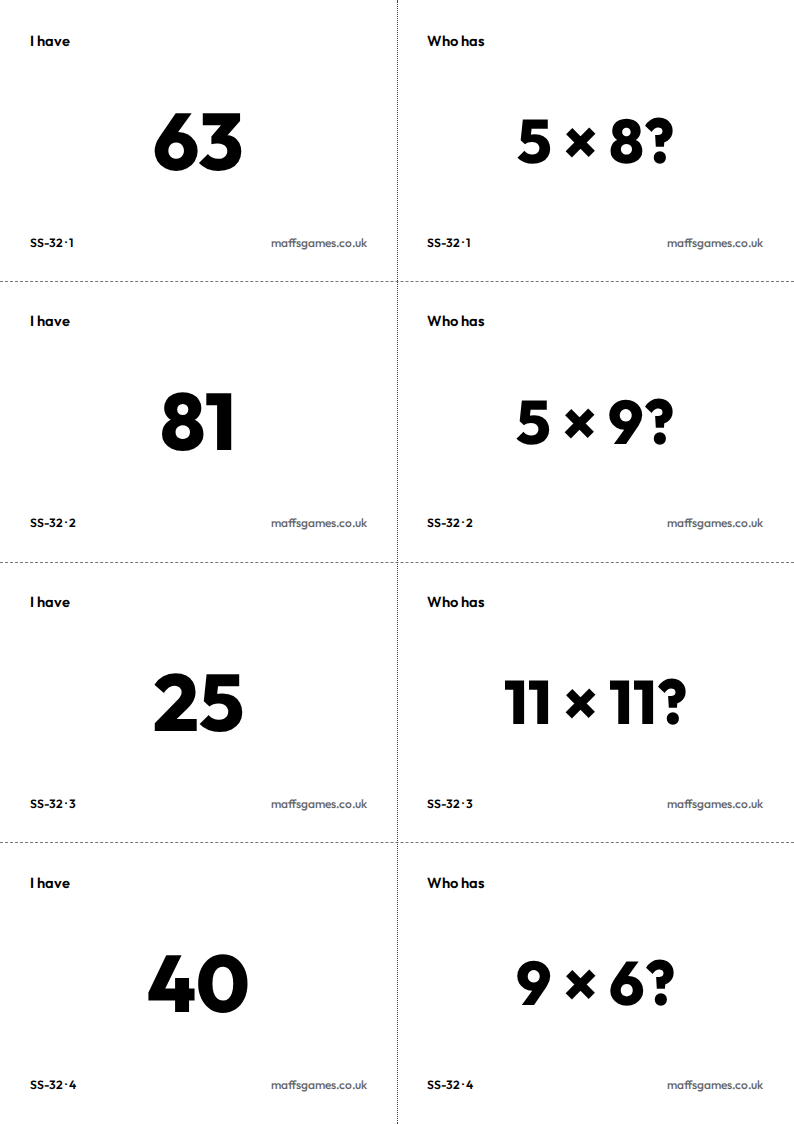
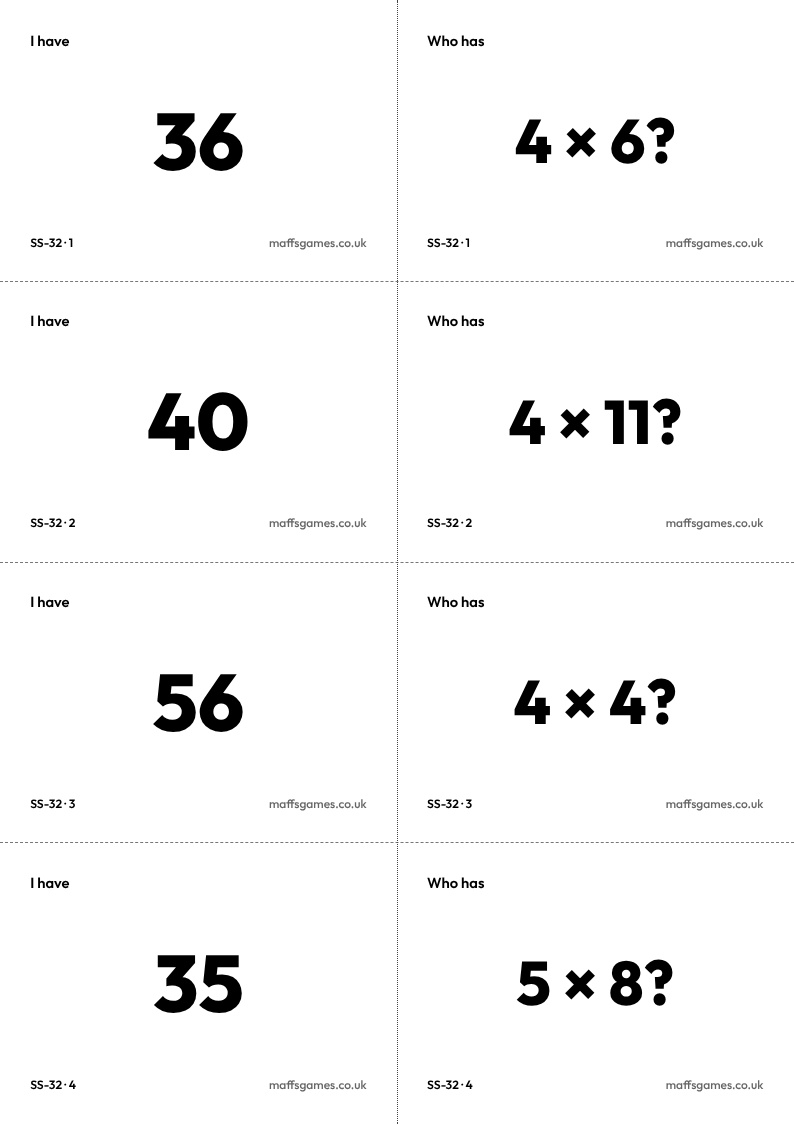
SIX-SEVENS-WEIGHTING: Six Sevens loop-card decks drill the 6, 7, 8, 9 and 12 tables by rule; the build checks it; loop-card selftest in CI (#748)
## SIX-SEVENS-WEIGHTING: Six Sevens, Bruv loop-card decks drill the 6, 7, 8, 9 and 12 tables by rule; the build checks it; the loop-card selftest runs in CI

Lane: cloud, under Jon's lane exception (13 Nov 2026, 07:58). Tier: Medium; merges on a green Gate under the cloud lane's standing authorisation (10 Oct); Project Claude reviews after merge. Merge order: none.

### Jon's rulings (verbatim)
"1 b" (01:50: re-weight the deck, not accept it as built); "1( agreed drop the 2s, 2) a)" (01:55: factors start at 3; the weighting is a rule, not a probability: SS-16 and SS-24 come only from the 6, 7, 8, 9 and 12 tables with no 11s; SS-32 takes all 25 of those products plus 7 from the 3, 4, 5 and 11 tables; the build checks every deck); "B: weighting + CI" (07:58: this work in the cloud lane, with the loop-card selftest added to CI, in one PR).

### Close-outs carried (standing rule, Jon 10 Nov)
- **WARMUP-PACKS** (#744, merged as c0214c8): main's check-site 43290435666 GREEN and phone-fit-full 43290435842 GREEN on c0214c8; contract moved to `docs/history/contracts/`. The merging session recorded no route line; this close-out does not guess one.

### What changed
[…]

diff --git a/tools/loop-cards/six_sevens.py b/tools/loop-cards/six_sevens.py
@@ -1,20 +1,31 @@
 """Six Sevens, Bruv: the loop-card adapter (contract LOOP-CARDS, 12 Nov 2026).
 
-Facts a x b with 2 <= a <= b <= 12, no x10 (the contract's rule for this pack), every product in a deck distinct,
-chosen deterministically from the deck's seeded generator and weighted to the 6, 7, 8, 9 and 12 tables. Every deck
-holds 6 x 7, whose card pair is SHOUTED (Jon, 12 Nov 2026, 15:05 and 15:07).
+Facts a x b with 3 <= a <= b <= 12, no x10, every product in a deck distinct, chosen deterministically from the deck's
+seeded generator. The decks drill the 6, 7, 8, 9 and 12 tables by RULE, not by probability (contract
+SIX-SEVENS-WEIGHTING, Jon's rulings of 13 Nov 2026, 01:50 and 01:55):
+
+  CORE  = the distinct products a x b (a, b from 3 to 12, not 10 or 11) with a or b in {6, 7, 8, 9, 12}: 25 products.
+  OTHER = every other distinct product a x b (a, b from 3 to 12, not 10): 15 products, from the 3, 4, 5 and 11 tables.
+
+  SS-16 and SS-24: 42 and the rest drawn uniformly from CORE, each printed as a fact on the 6, 7, 8, 9 or 12 table
+  with no 11. SS-32: all 25 CORE products, plus 7 drawn uniformly from OTHER.
+
+Every deck holds 6 x 7, whose card pair is SHOUTED (Jon, 12 Nov 2026, 15:05 and 15:07).
 
 The build's check never trusts choose(): value_q() and value_a() read the PRINTED text again and work the
-products out themselves, including the shouted question in words.
+products out themselves, including the shouted question in words; deck_problems() reads the printed backs' factors
+again and holds every deck to the rule above.
 """
 import re
 
 CODE = "SS"
 GAME = "six-sevens-bruv"
-FACTORS = [a for a in range(2, 13) if a != 10]
-WEIGHTED = {6, 7, 8, 9, 12}
-WEIGHT = 3                   # a fact on a weighted table is three times as likely to be chosen
+FACTORS = [a for a in range(3, 13) if a != 10]
+TABLES = {6, 7, 8, 9, 12}    # the tables the decks drill
+NOT_CORE = 11                # an 11-table fact is never core, whatever it is paired with
 REQUIRED = 42                # 6 x 7, in every deck
+CORE_DECKS = (16, 24)        # every card core
+ALL_CORE_DECK, OTHERS = 32, 7    # all of CORE, plus this many from OTHER
 TXT_CLASS = "lc-num"
 FRONT_MAX, BACK_MAX = 60, 46
 FONTS = ("Outfit",)
@@ -38,24 +49,42 @@ def _facts():
     return by_product
 
 
-def _weight(fact):
-    return WEIGHT if (fact[0] in WEIGHTED or fact[1] in WEIGHTED) else 1
+def is_core(fact):
+    """A fact on the 6, 7, 8, 9 or 12 table with no 11 in it."""
+    return NOT_CORE not in fact and bool(TABLES & set(fact))
+
+
+def _sets():
+    """(CORE, OTHER): each a dict of product -> the facts it may be printed as, in a fixed order."""
+    core, other = {}, {}
+    for p, facts in sorted(_facts().items()):
+        good = [f for f in facts if is_core(f)]
+        if good:
+            core[p] = good
+        else:
+            other[p] = facts
+    return core, other
 
 
 def choose(n, rng):
-    """n facts with distinct products, 6 x 7 always among them. A weighted sample without replacement
-    (Efraimidis-Spirakis keys), so the same seed always gives the same deck."""
-    by_product = _facts()
-    if len(by_product) < n:
-        raise ValueError("only %d distinct products, not %d" % (len(by_product), n))
-    pool = sorted(p for p in by_product if p != REQUIRED)
-    key = {p: rng.random() ** (1.0 / max(_weight(f) for f in by_product[p])) for p in pool}
-    chosen = [REQUIRED] + sorted(pool, key=lambda p: -key[p])[:n - 1]
+    """n facts with distinct products, 6 x 7 always among them, by the rule in the module's docstring. Every draw
+    comes from rng, over sorted lists, so the same seed always gives the same deck."""
+    core, other = _sets()
+    if n in CORE_DECKS:
+        pool = sorted(p for p in core if p != REQUIRED)
+        if len(pool) < n - 1:
+            raise ValueError("only %d core products besides 42, not %d" % (len(pool), n - 1))
+        chosen = [(REQUIRED, core[REQUIRED])] + [(p, core[p]) for p in rng.sample(pool, n - 1)]
+    elif n == ALL_CORE_DECK:
+        if len(core) + OTHERS != n or len(other) < OTHERS:
+            raise ValueError("%d core and %d other products cannot make %d + %d cards"
+                             % (len(core), len(other), len(core), OTHERS))
+        chosen = [(p, core[p]) for p in sorted(core)] + [(p, other[p]) for p in rng.sample(sorted(other), OTHERS)]
+    else:
+        raise ValueError("no Six Sevens deck of %d cards (16, 24 or 32)" % n)
     items = []
-    for p in chosen:
-        facts = by_product[p]
-        fk = {f: rng.random() ** (1.0 / _weight(f)) for f in facts}
-        a, b = max(facts, key=lambda f: fk[f])
+    for p, facts in chosen:
+        a, b = rng.choice(facts)
         if rng.random() < 0.5:
             a, b = b, a
         items.append({"q": "%d × %d" % (a, b), "a": str(p)})
@@ -65,7 +94,8 @@ def choose(n, rng):
 def unused(items):
     """A fact (as an item) whose product is in none of these items: the selftest's replacement for 6 x 7."""
     have = {value_a(it["a"]) for it in items}
-    for p, facts in sorted(_facts().items()):
+    core, other = _sets()
+    for p, facts in sorted(list(core.items()) + list(other.items())):
         if p not in have and p != REQUIRED:
             a, b = facts[0]
             return {"q": "%d × %d" % (a, b), "a": str(p)}
@@ -81,21 +111,61 @@ WORDS_RE = re.compile(r"WHO HAS ([A-Z]+) ([A-Z]+?)S")
 
 
 def _factor(x):
-    if not (2 <= x <= 12) or x == 10:
-        raise ValueError("factor %d is outside 2 to 12 without 10" % x)
+    if not (3 <= x <= 12) or x == 10:
+        raise ValueError("factor %d is outside 3 to 12 without 10" % x)
     return x
 
 
-def value_q(text):
-    """A printed back without its "?": "a × b" (U+00D7), or the shout in words, "WHO HAS SIX SEVENS"
-    (six lots of seven). Returns the product."""
+def _parse(text):
+    """The two numbers a printed back names: "a × b" (U+00D7), or the shout in words, "WHO HAS SIX SEVENS"
+    (six lots of seven). Neither range-checked nor multiplied: value_q() and factors_q() share this reading."""
     m = FACT_RE.fullmatch(text)
     if m:
-        return _factor(int(m.group(1))) * _factor(int(m.group(2)))
+        return int(m.group(1)), int(m.group(2))
     m = WORDS_RE.fullmatch(text)
     if m and m.group(1) in WORDS and m.group(2) in WORDS:
-        return _factor(WORDS[m.group(1)]) * _factor(WORDS[m.group(2)])
+        return WORDS[m.group(1)], WORDS[m.group(2)]
     raise ValueError("cannot read the question %r (expected 'a × b' with U+00D7)" % text)
+
+
+def value_q(text):
+    """A printed back without its "?". Returns the product."""
+    a, b = _parse(text)
+    return _factor(a) * _factor(b)
+
+
+def factors_q(text):
+    """A printed back without its "?". Returns its two factors (a, b) as printed."""
+    return _parse(text)
+
+
+def deck_problems(code, n, backs):
+    """The table rule, read from the deck's PRINTED backs (each without its "?") through factors_q() alone, never
+    from choose(). SS-16 and SS-24: every card core (a factor in 6, 7, 8, 9, 12; no 11). SS-32: at least 25 core
+    cards and at most 7 others. Every deck: no factor below 3. One message per fault, naming the deck and the back."""
+    problems, core, others = [], [], []
+    for text in backs:
+        try:
+            fact = factors_q(text)
+        except ValueError as e:
+            problems.append("%s: the back %r: %s" % (code, text, e))
+            continue
+        if min(fact) < 3:
+            problems.append("%s: the back %r has a factor below 3" % (code, text))
+        (core if is_core(fact) else others).append(text)
+    if n in CORE_DECKS:
+        for text in others:
+            problems.append("%s: the back %r is not on the 6, 7, 8, 9 or 12 table without an 11 (every %s card must be)"
+                            % (code, text, code))
+    elif n == ALL_CORE_DECK:
+        need = len(_sets()[0])
+        if len(core) < need or len(others) > OTHERS:
+            problems.append("%s: %d cards on the 6, 7, 8, 9 and 12 tables without an 11 and %d others (%s); it needs at "
+                            "least %d and at most %d" % (code, len(core), len(others), ", ".join(map(repr, others)),
+                                                         need, OTHERS))
+    else:
+        problems.append("%s: no table rule for a deck of %d cards" % (code, n))
+    return problems
 
 
 def value_a(text):

diff --git a/tools/loop-cards/build_deck.py b/tools/loop-cards/build_deck.py
@@ -632,6 +632,10 @@ def check_deck(ad, code, faces, tables, add):
             Q[i] = ad.value_q(b["main"][:-1].strip())
         except ValueError as e:
             add("%s card %s back: %s" % (code, i, e))
+    if hasattr(ad, "deck_problems"):      # an adapter's own rule for a deck's mix, read from the printed backs
+        for msg in ad.deck_problems(code, n, [b["main"][:-1].strip() for _, b in sorted(back.items())
+                                              if (b["main"] or "").endswith("?")]):
+            add(msg)
     owners = {}
     for i, v in A.items():
         owners.setdefault(v, []).append(i)
@@ -960,6 +964,33 @@ def plant_no_web(ad, cfg, pack):
     _deck(pack, "SS-16")["cards"][1]["no_web"] = ("fold", "back")
 
 
+def _rebuild(ad, cfg, pack, n, items):
+    """Deck n rebuilt from these items, so the loop stays whole and only the planted card is wrong."""
+    pack["decks"][SIZES.index(n)] = make_deck(ad, cfg, n, items)
+
+
+def _swap_item(items, product, new):
+    """items with new in place of the card answering product, or, if none does, of the first card not answering 42."""
+    k = next((i for i, it in enumerate(items) if it["a"] == product), None)
+    if k is None:
+        k = next(i for i, it in enumerate(items) if it["a"] != "42")
+    return items[:k] + [new] + items[k + 1:]
+
+
+def plant_eleven(ad, cfg, pack):
+    _rebuild(ad, cfg, pack, 24, _swap_item(_deck(pack, "SS-24")["items"], "66", {"q": "6 × 11", "a": "66"}))
+
+
+def plant_two(ad, cfg, pack):
+    _rebuild(ad, cfg, pack, 16, _swap_item(_deck(pack, "SS-16")["items"], "18", {"q": "2 × 9", "a": "18"}))
+
+
+def plant_eight_others(ad, cfg, pack):
+    """SS-32 holds every core product, 54 (6 × 9) among them: an unused non-core product takes its place."""
+    items = _deck(pack, "SS-32")["items"]
+    _rebuild(ad, cfg, pack, 32, _swap_item(items, "54", ad.unused(items)))
+
+
 PLANTS = (
     ("a duplicated answer", "like-terms-collector", plant_dup, r"is on 2 cards"),
     ("a back with no matching front", "like-terms-collector", plant_no_front, r"matches no front"),
@@ -979,6 +1010,11 @@ PLANTS = (
      r"the SHOUT IT back asks"),
     ("a shout in the Like Terms pack", "like-terms-collector", plant_lt_shout, r"in a pack without shouts"),
     ("a card face without the web address", "six-sevens-bruv", plant_no_web, r"no maffsgames\.co\.uk on this face"),
+    ("an 11-table card (6 × 11) in SS-24", "six-sevens-bruv", plant_eleven,
+     r"SS-24: the back '6 × 11' is not on the 6, 7, 8, 9 or 12 table"),
+    ("a 2-times card (2 × 9) in SS-16", "six-sevens-bruv", plant_two, r"SS-16: the back '2 × 9' has a factor below 3"),
+    ("SS-32 with 8 cards off the core tables", "six-sevens-bruv", plant_eight_others,
+     r"SS-32: 24 cards on the 6, 7, 8, 9 and 12 tables without an 11 and 8 others"),
 )
 
 

diff --git a/scripts/test-loop-cards.py b/scripts/test-loop-cards.py
@@ -1,0 +1,19 @@
+#!/usr/bin/env python3
+# ci-line: Loop cards (tools/loop-cards/build_deck.py --selftest: both loop-card packs, Six Sevens, Bruv and Like Terms Collector, pass every check as built, with the DRAFT badge following approval both ways; eighteen planted faults caught (a duplicated answer, a back with no front, two loops in one deck, a card asking its own answer, a back not mirrored, text past the safe zone, a string-similar answer, a card from another deck, a long teacher step, no 6 × 7, a shout on the wrong card or back, a shout in Like Terms, a face without the web address, an 11-table card in SS-24, a 2-times card in SS-16, SS-32 with 8 cards off the core tables, an unapproved --final); no PDF is ever built in CI) |
+# ci-deps: tools/loop-cards/ tools/pack-generator/ games/like-terms-collector/ scripts/bank_common.py scripts/plant_common.py scripts/escape_set_checks.py scripts/ci_shards.py scripts/fonts/ schools/assets/m_plus_logo.svg
+"""CI's entry to the loop-card generator's self-test (contract SIX-SEVENS-WEIGHTING, 13 Nov 2026).
+
+CI finds its lines only in scripts/*.py headers (scripts/ci-groups.py), and the generator lives in tools/loop-cards/,
+so this file is the line and nothing more, on scripts/test-pack-generator.py's pattern: it runs
+`build_deck.py --selftest` and returns its exit status. The self-test builds no PDF: the pack is the product, and
+never a CI artifact.
+"""
+import os
+import subprocess
+import sys
+
+ROOT = os.path.dirname(os.path.dirname(os.path.abspath(__file__)))
+BUILD = os.path.join(ROOT, "tools", "loop-cards", "build_deck.py")
+
+if __name__ == "__main__":
+    sys.exit(subprocess.call([sys.executable, "-X", "utf8", BUILD, "--selftest"]))

diff --git a/docs/handover/contracts/2026-11-13-six-sevens-weighting.md b/docs/handover/contracts/2026-11-13-six-sevens-weighting.md
@@ -1,0 +1,29 @@
+SIX-SEVENS-WEIGHTING (Project Claude, Fri 13 Nov 2026 08:00; Jon's rulings 01:50, 01:55, 07:58)
+Recommended: Opus, effort high — a deck generator and its independent check both change, and a new CI line.
+LANE: cloud, a fresh session (read AGENTS.md and docs/handover/cloud.md's standing rules and container setup first). TIER: Medium (merge on green under the cloud lane's standing authorisation, 10 Oct; Project Claude reviews after merge). START: now. One PR. Branch from current origin/main (89a5946 or newer).
+LANE EXCEPTION (Jon, 13 Nov 2026 07:58, explicit): this PR may change tools/loop-cards/ (six_sevens.py, build_deck.py's one hook, README), docs/screens/loop-cards/six-sevens-bruv proofs, and docs/todo.md's LOOP-CARDS-APPROVE row. Home normally owns these. Home is idle.
+CLOSE-OUTS (standing rule, Jon 10 Nov), in the first commit: WARMUP-PACKS merged #744 as c0214c8; record main's check-site and phone-fit-full run IDs on c0214c8 in docs/handover/cloud.md; move docs/handover/contracts/2026-11-12-warmup-packs.md to docs/history/contracts/. Leave 2026-11-12-loop-cards.md (home's). Save this contract verbatim in docs/handover/contracts/ in the same commit.
+MERGE: merge-pr.py on a green Gate, or the standing merge-route ruling of 10 Nov if gh auth fails (message = PR body word for word).
+
+JON'S RULINGS (verbatim in the PR body): "1 b" (01:50: re-weight the deck, not accept it as built); "1( agreed drop the 2s, 2) a)" (01:55: factors start at 3; the weighting is a rule, not a probability: SS-16 and SS-24 come only from the 6, 7, 8, 9 and 12 tables with no 11s; SS-32 takes all 25 of those products plus 7 from the 3, 4, 5 and 11 tables; the build checks every deck); "B: weighting + CI" (07:58: this work in the cloud lane, with the loop-card selftest added to CI, in one PR).
+
+TASK: Make every Six Sevens, Bruv loop-card deck drill the 6, 7, 8, 9 and 12 tables by rule, with no 2-times facts, have the build prove it from the printed cards, and run the loop-card selftest in CI.
+
+ROOT CAUSE: six_sevens.py choose() weights a fact 3 to 1 when either factor is on a weighted table (:15–16, :41), so 11-table facts paired with 6, 7, 8, 9 or 12 are boosted too, and FACTORS starts at 2 (:14), letting in trivial facts (2 × 2, 2 × 3, 4 × 2). The weighting is a probability, and no check reads the printed decks for the mix. Separately, build_deck.py --selftest has no CI line, so no check of either loop-card pack runs on any PR.
+
+CLASS CHECK: The table rule is local to one adapter (Like Terms has no tables), so the rule and its check live in six_sevens.py; the only shared change is a generic, optional adapter hook in build_deck.py, with no Six Sevens logic there. The check reads the printed backs, never trusts choose() (the module's own rule). The missing CI line is the same shape the pack generator already solved (scripts/test-pack-generator.py): follow that pattern, not a new mechanism.
+
+EXACT CHANGE:
+1. six_sevens.py: FACTORS = 3 to 12 without 10. CORE = the distinct products a × b (3 ≤ a ≤ b ≤ 12, a, b ≠ 10, 11) with a or b in {6, 7, 8, 9, 12}: 25 products, 42 among them. OTHER = every other distinct product with 3 ≤ a ≤ b ≤ 12, a, b ≠ 10: 15 products.
+   choose(n, rng), deterministic from rng: n = 16 or 24: 42 plus n − 1 drawn uniformly from CORE without 42. n = 32: all 25 CORE plus 7 drawn uniformly from OTHER. Printed fact for a CORE product: one of its facts with a factor in {6,7,8,9,12} and no 11, chosen by rng; for an OTHER product, any of its facts (3–12, no 10), chosen by rng. Keep the random order swap of a and b. Remove WEIGHT and _weight(). Any other n raises ValueError. unused() still returns a product in no item (from CORE ∪ OTHER).
+   _factor(): accept 3 to 12 without 10 (message updated). Add factors_q(text) returning (a, b) from a printed back, reading "a × b" or the shout in words, sharing value_q()'s parsing.
+   Add deck_problems(code, n, backs): from the printed backs (each without "?"), via factors_q only: SS-16 and SS-24: every card's fact has a factor in {6,7,8,9,12} and no factor 11; SS-32: at least 25 such cards and at most 7 others; every deck: no factor below 3. Returns a list of messages naming the code and the card's printed back.
+   Module docstring and the README "How it works" Six Sevens sentence state the new rule (no "weighted 3 to 1").
+2. build_deck.py check_deck(): if the adapter defines deck_problems, call it with the deck's printed backs and add each message. No other change to build_deck.py.
+3. Selftest plants (PLANTS), each must be caught: an 11-table card (e.g. "6 × 11") in SS-24; a 2-times card ("2 × 9") in SS-16; SS-32 with 8 non-core cards. Existing plants all still pass.
+4. CI: new scripts/test-loop-cards.py on scripts/test-pack-generator.py's pattern (header ci-line naming the loop-card selftest and its plant count; ci-deps listing every path build_deck.py --selftest reads: tools/loop-cards/, tools/pack-generator/build_pack.py and whatever else it loads, e.g. games/like-terms-collector/index.html and the fonts; body runs build_deck.py --selftest and returns its status). Builds no PDF. Confirm in the PR that the Gate ran it and it passed.
+5. Build the Six Sevens pack (no --final; DRAFT stays) in the container: page counts and layout unchanged; PR body lists every deck's facts in loop order and, per deck, how many cards are on each table (3 to 12). Regenerate docs/screens/loop-cards/ proofs for six-sevens-bruv only. Never attach or commit the PDF: give Jon the one home build command.
+6. Todo: LOOP-CARDS-APPROVE row notes that Six Sevens' cards changed (SIX-SEVENS-WEIGHTING, 13 Nov 2026) and Jon proofreads the new PDF. cloud.md handover entry (keep under 18 KiB; archive oldest dated entries word for word if needed). No /updates/ line (the pack is not yet published).
+DO NOT TOUCH: like_terms.py and the Like Terms pack; SHOUT, TEACHER_EXTRA and page-1 wording; build_deck.py beyond the hook in 2; tools/pack-generator/; any game page, including games/six-sevens-bruv/; config.json seeds and wording_approved; the workflow, scripts/ci-*, ci_shards.py and every other Gate file (the new scripts/test-loop-cards.py is the only CI change); docs/handover/home.md; docs/handover/contracts/2026-11-12-loop-cards.md; canon, AGENTS.md. Never commit a PDF.
+SUCCESS CONDITION: --selftest passes with every existing plant and the three new plants caught; the Gate runs scripts/test-loop-cards.py and it passes; the Six Sevens pack builds; SS-16 and SS-24 contain only facts on the 6, 7, 8, 9 and 12 tables with no 11s and no 2s; SS-32 contains all 25 core products plus exactly 7 others, no 2s; 6 × 7 shouted in every deck; answers distinct in each deck; the Like Terms pack's printed card text is identical to main's build (diff it); WARMUP-PACKS close-out done; Gate green; merged; main's check-site and phone-fit-full on the merge commit green and reported; contract moved to docs/history/contracts/; committed, handover documented.
+STOP IF: the core set is not 25 products or does not contain 42 (report the set); any deck cannot be built under the rule; a card no longer fits its face at the current sizes; the hook would need Six Sevens-specific code in build_deck.py; the loop-card selftest cannot run in CI without a Gate file change (report what it needs; do not change Gate files); an existing plant or check would have to change to pass; any change is needed outside EXACT CHANGE.

diff --git a/docs/handover/cloud.md b/docs/handover/cloud.md
@@ -77,9 +77,15 @@ start-up load). When the work merges, move the file to `docs/history/contracts/`
 
 **Merges by the standing route (Jon's ruling of 10 Nov):** the merge message is the PR body word for word, as merge-pr.py writes it (with its skip markers disarmed). #724's was a condensed form; recorded in its close-out.
 
-## 2026-11-12 (cloud): WARMUP-PACKS (`docs/handover/contracts/2026-11-12-warmup-packs.md`, lane exception, Jon 17:58; Amendments 1-3)
+## 2026-11-13 (cloud): SIX-SEVENS-WEIGHTING (`docs/handover/contracts/2026-11-13-six-sevens-weighting.md`, lane exception, Jon 07:58)
 
-PR OPEN, merging on green. Branch `claude/vibrant-fermi-solu8c` from main 5261dc9: 29699cd contract (no claim: the rooms are not on cloud-remaining, which lists games); f3fac3d #743 close-out; then the work. Stopped three times, each ruled (the contract file has them verbatim): 18:30 (ten shelves, new art, fines-screen one bold part, "all in order."), 18:55 (hook off every cover; a hook or brief with a {{token}} fails the build), 19:12 (the cover picture scales to the space left, floor 60%).
+PR OPEN, merging on green. Agent Claude Code (cloud), branch `claude/optimistic-goodall-q87dul` from main 89a5946. First commit bdc773d: this contract, and WARMUP-PACKS' close-out (below). Core set checked before any edit: 25 products, 42 among them (18 21 24 27 28 30 32 35 36 40 42 45 48 49 54 56 60 63 64 72 81 84 96 108 144); OTHER 15 (9 12 15 16 20 25 33 44 55 66 77 88 99 121 132).
+Done: six_sevens.py draws by rule (16/24: 42 + core; 32: all 25 core + 7 other) and deck_problems() reads the printed backs' factors; build_deck.py check_deck() calls an adapter's deck_problems if it has one (generic); three plants; selftest 18/18 caught (was 15). scripts/test-loop-cards.py (ci-line, ci-deps from a traced selftest run) packs alone into Content verifiers 50; ci-groups --check PASS. Six Sevens pack built (DRAFT, 40 pages, same page ranges and font sizes as main's); SS-16/24 all core, SS-32 25 core + 7 others, no factor below 3. Like Terms' printed faces, sizes and answer sheets byte-identical to main's build. Proofs regenerated for six-sevens-bruv only: same layout, the build date and the container's font smoothing differ.
+
+## 2026-11-12 (cloud): WARMUP-PACKS (`docs/history/contracts/2026-11-12-warmup-packs.md`, lane exception, Jon 17:58; Amendments 1-3)
+
+DONE, merged and live: #744 squash-merged as c0214c8 (12 Nov 19:27 UTC). Route: through the GitHub connection; the merging session recorded no route line, so it is not stated here (gh auth fails in cloud containers, todo CLOUD-MERGE-TOKEN). Main on c0214c8: check-site 43290435666 GREEN, phone-fit-full 43290435842 GREEN (closed out by SIX-SEVENS-WEIGHTING, 13 Nov).
+Was: PR OPEN, merging on green. Branch `claude/vibrant-fermi-solu8c` from main 5261dc9: 29699cd contract (no claim: the rooms are not on cloud-remaining, which lists games); f3fac3d #743 close-out; then the work. Stopped three times, each ruled (the contract file has them verbatim): 18:30 (ten shelves, new art, fines-screen one bold part, "all in order."), 18:55 (hook off every cover; a hook or brief with a {{token}} fails the build), 19:12 (the cover picture scales to the space left, floor 60%).
 Banks: chokey-factor-count 6 (24, 72, 76, 80, then 36 and 64: squares tried after every non-square so old indices hold; answers 6-10, 12), dewey-sort-arm 10 (the eight, 510, 636; answers 2-7; set codes A-K). variants.json differs from main only there, pure appends. Six RECOMPUTE entries agree on all 205 stored values.
 Art: rerolls came as loose PNGs on art/library-jam-pack-1 (9bb2b25) and art/comic-caper-pack-1 (d95bc97), two named *.png.png; saved under their stems. No art branch deleted.
 Packs (seed 1, DRAFT): Kiln 35 pages, cover spare 38.0 mm; Christmas 36, 23.0 mm; Comic Caper 36, 33.0 mm; all three pictures full size, 150 x 82 mm. Library Jam 36, picture 119 x 65 mm (79%), spare 0.0 mm. Selftest 38/38. check-escape-rooms, check-lock-bank, check-canon-rooms and all ten test-escape-* PASS.

diff --git a/docs/todo.md b/docs/todo.md
@@ -692,7 +692,7 @@ Only what needs Jon: a ruling, a content review, or a task only he can do. Build
 - None open (11 Nov 2026: matrix-crunch's fourth distractor, §1.4, ruled by Jon on 10 Nov and closed by CLOUD-QUEUE-1111 PR 1).
 
 **Content to review:**
-- **LOOP-CARDS-APPROVE** (12 Nov 2026): approve both loop-card packs' teacher wording (proofs `docs/screens/loop-cards/*-teacher1.png`) (the PR's three layout calls were approved by Jon on 12 Nov). Approval goes in `tools/loop-cards/decks/<slug>/config.json` "wording_approved"; then `--final` builds go to Tes (Like Terms Collector £3; Six Sevens, Bruv free). Owner: Jon, then home lane.
+- **LOOP-CARDS-APPROVE** (12 Nov 2026): approve both loop-card packs' teacher wording (proofs `docs/screens/loop-cards/*-teacher1.png`) (the PR's three layout calls were approved by Jon on 12 Nov). **Six Sevens' cards changed (SIX-SEVENS-WEIGHTING, 13 Nov 2026):** the 16 and 24 decks are only 6, 7, 8, 9 and 12-table facts with no 11s and no 2s, the 32 deck all 25 of those plus 7 from the 3, 4, 5 and 11 tables, and the build checks it; Jon proofreads the new Six Sevens PDF (`python -X utf8 tools/loop-cards/build_deck.py six-sevens-bruv`) before approving. Approval goes in `tools/loop-cards/decks/<slug>/config.json` "wording_approved"; then `--final` builds go to Tes (Like Terms Collector £3; Six Sevens, Bruv free). Owner: Jon, then home lane.
 - Spot the Error banks (§1.23): KS3 35, Level 4 30.
 - New Shapes banks (§1.27): 15 / 20 / 15.
 - Regression Rumble (§1.26): Jon's look at the rebuilt game before the holding page is replaced.

diff --git a/tools/loop-cards/README.md b/tools/loop-cards/README.md
@@ -94,8 +94,11 @@ unless, for every deck:
 `build_deck.py` holds no game's facts. A pack's `decks/<slug>/config.json` names its adapter, title, seed and pack
 version. The adapter (`six_sevens.py`, `like_terms.py`) gives:
 
-- `choose(n, rng)`: the deck's questions and answers. Six Sevens: facts a × b, 2 ≤ a ≤ b ≤ 12 without ×10, every
-  product distinct, weighted 3 to 1 towards the 6, 7, 8, 9 and 12 tables, 6 × 7 always in. Like Terms: the 30 STAGE3
+- `choose(n, rng)`: the deck's questions and answers. Six Sevens: facts a × b, 3 ≤ a ≤ b ≤ 12 without ×10, every
+  product distinct, 6 × 7 always in, by a rule, not a probability (SIX-SEVENS-WEIGHTING, Jon, 13 Nov 2026): the 16
+  and 24 decks are only facts on the 6, 7, 8, 9 and 12 tables with no 11 (25 such products); the 32 deck is all 25 of
+  them plus 7 from the 3, 4, 5 and 11 tables. Its optional `deck_problems()` holds every deck to that rule from the
+  printed backs' factors, and the build fails on any breach. Like Terms: the 30 STAGE3
   items and the first 2 STAGE2 items of `games/like-terms-collector/index.html`, read from the page each build (never
   copied); the 32 deck is all of them, the 16 and 24 decks seeded subsets.
 - `value_q()` and `value_a()`: the independent recomputation of a printed question and answer.
